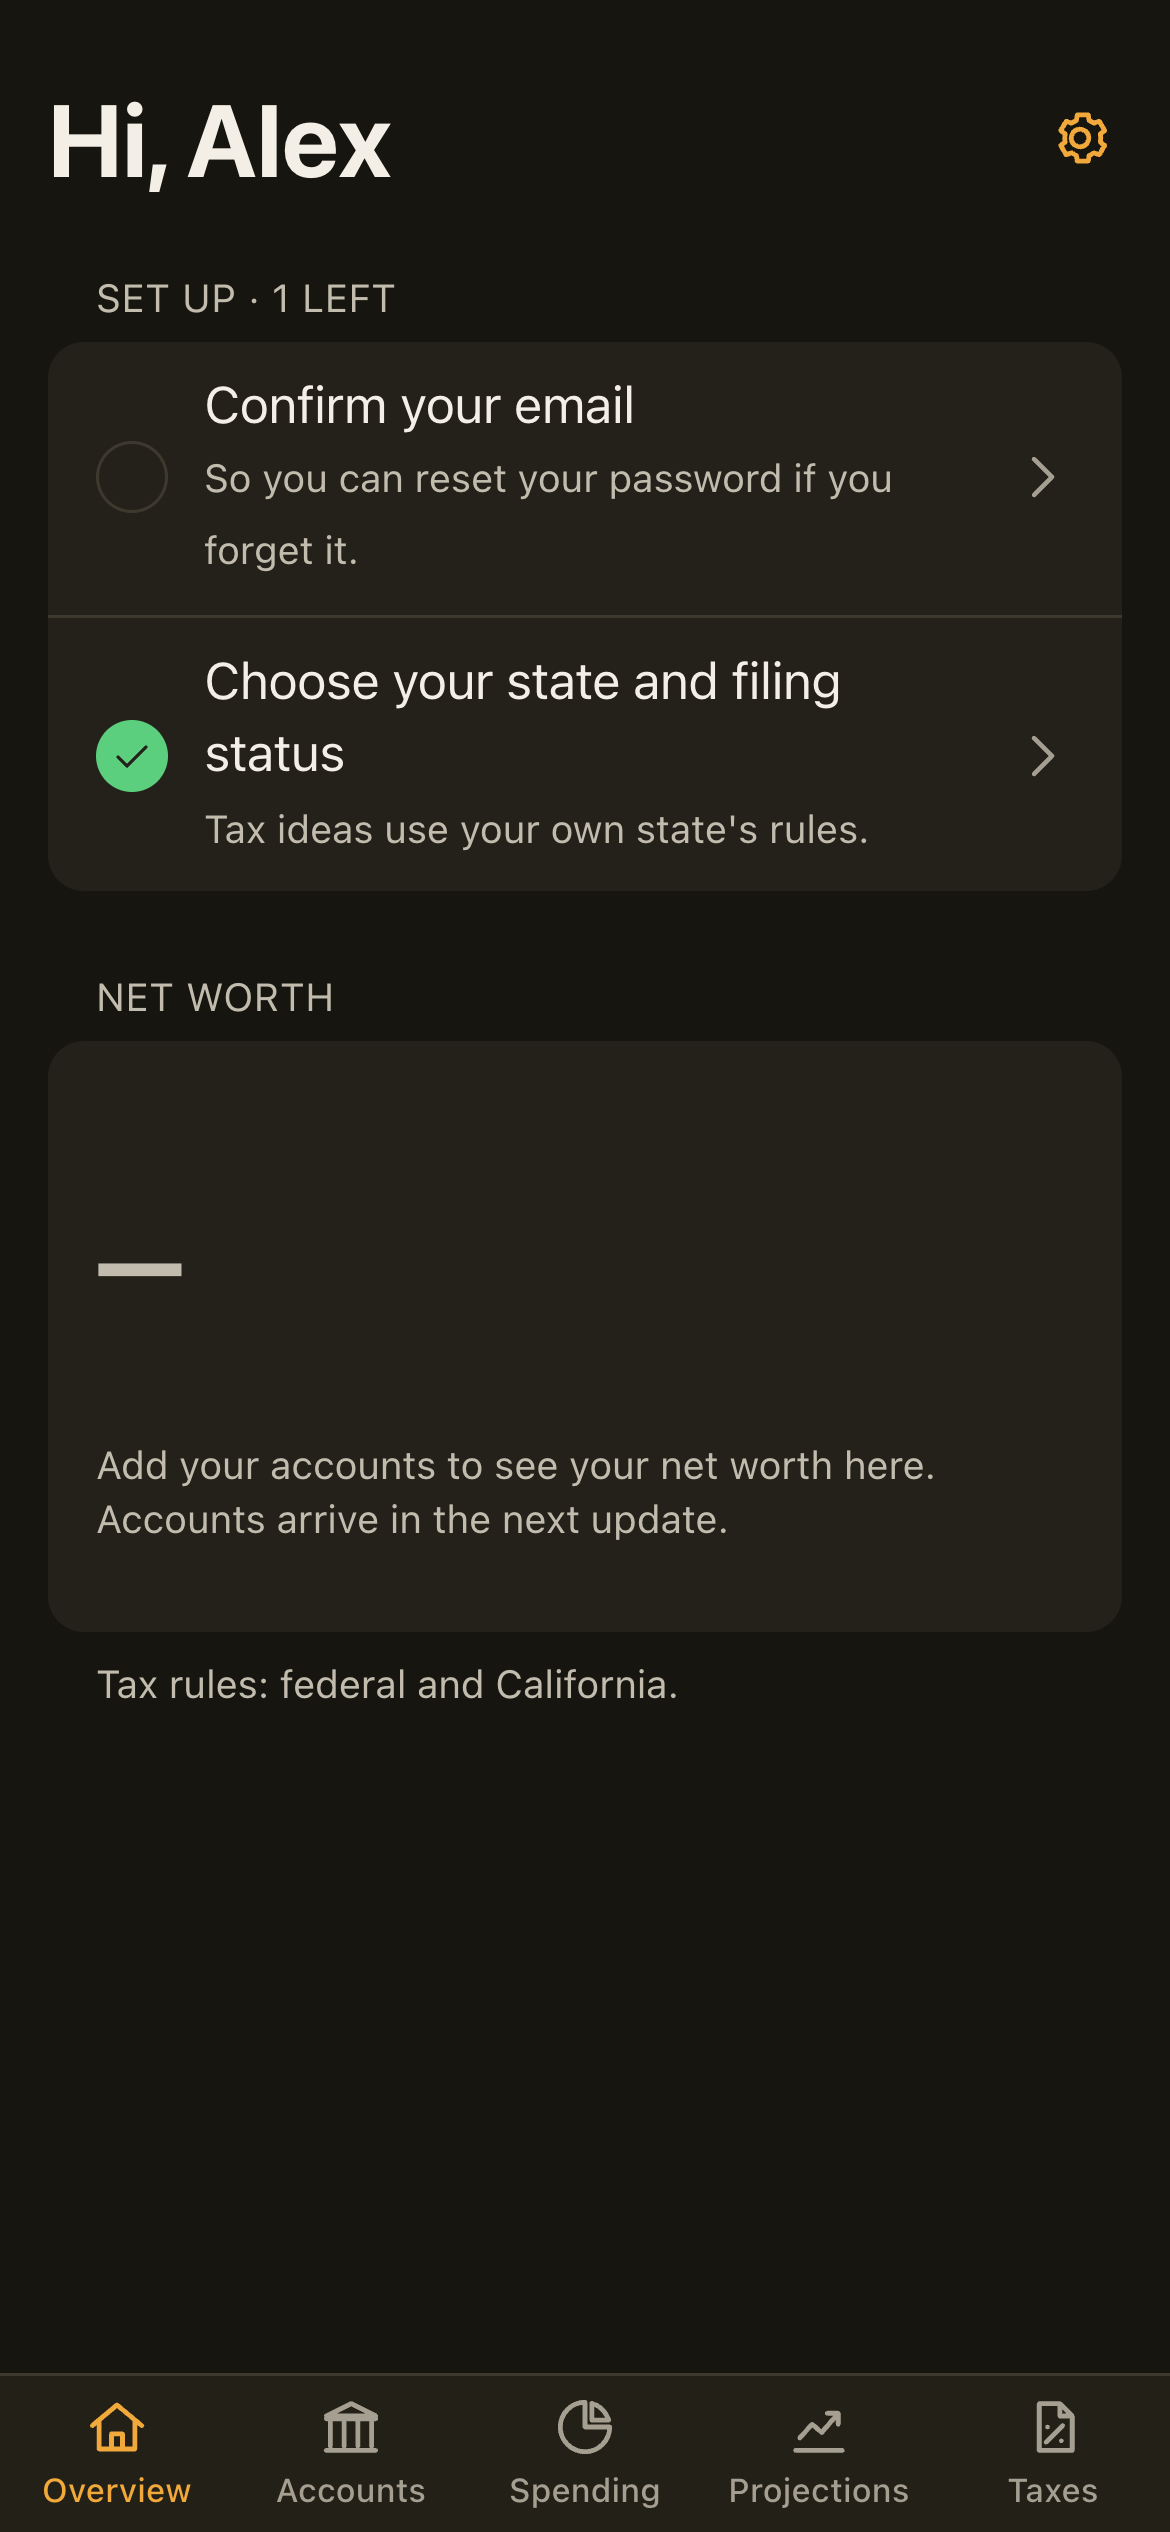
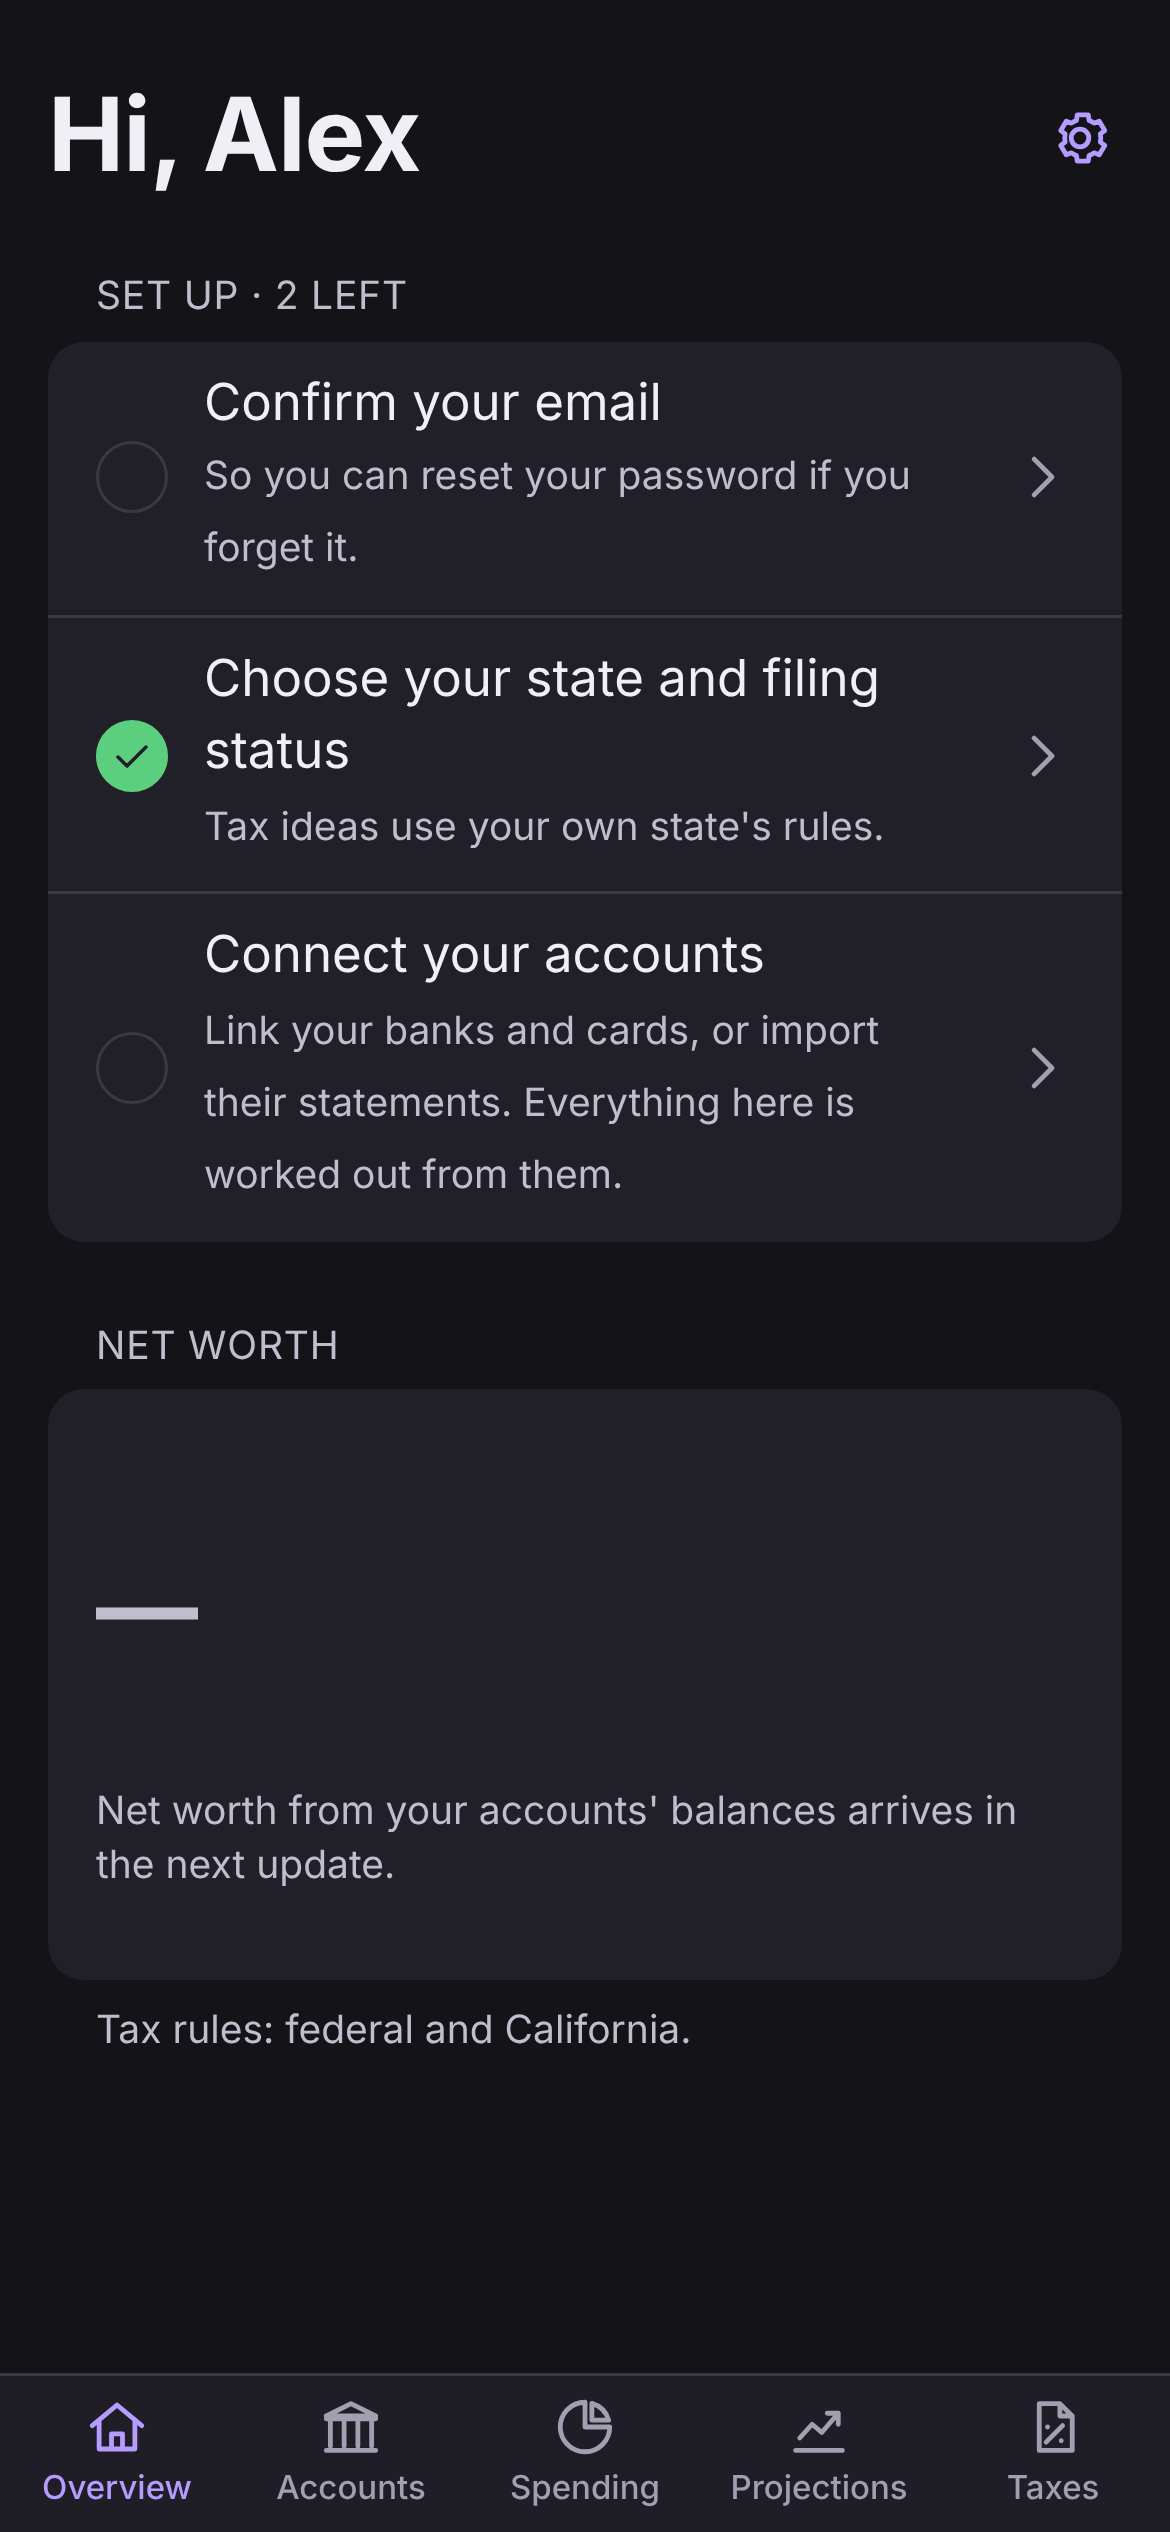
Switch the theme from orange to violet
The accent, app icon tile and email buttons move from cheddar orange to a
violet (#6b3fc4 light, #b69cff dark) that sits apart from the red and green
of losses and gains. The warm neutrals become cool violet-greys to match.
Every text and accent pairing keeps at least 4.5:1 contrast in both modes.
Migration 0008 recolours the existing email templates.

Claude-Session: https://claude.ai/code/session_01GBPZ7fPvkqJNiJKyWXnBsk

diff --git a/app/assets/css/main.css b/app/assets/css/main.css
@@ -8,16 +8,16 @@
 :root {
   color-scheme: light dark;
 
-  --bg: #f7f5f0;            /* page ground (grouped background) */
+  --bg: #f6f5f9;            /* page ground (grouped background) */
   --surface: #ffffff;       /* cards and grouped rows */
-  --surface-2: #efece4;     /* fills: inputs, pressed rows */
-  --separator: #dcd7cb;
-  --text: #1d1b16;
-  --text-2: #5c574b;        /* secondary labels */
-  --text-3: #6f695c;        /* tertiary: hints, placeholders */
-  --accent: #9a5300;        /* cheddar rind: links, tint, primary buttons */
+  --surface-2: #ecebf1;     /* fills: inputs, pressed rows */
+  --separator: #d9d7e1;
+  --text: #1b1a20;
+  --text-2: #58546a;        /* secondary labels */
+  --text-3: #6b6779;        /* tertiary: hints, placeholders */
+  --accent: #6b3fc4;        /* violet: links, tint, primary buttons */
   --on-accent: #ffffff;
-  --accent-soft: #fbecd6;
+  --accent-soft: #efe8fb;
   --success: #1e7a3c;
   --warning: #8a5a00;
   --critical: #b3261e;
@@ -36,21 +36,21 @@
 
 @media (prefers-color-scheme: dark) {
   :root {
-    --bg: #17150f;
-    --surface: #24211a;
-    --surface-2: #322e25;
-    --separator: #3e392e;
-    --text: #f3efe6;
-    --text-2: #c2bcae;
-    --text-3: #a59f91;
-    --accent: #f2a93b;
-    --on-accent: #1d1b16;
-    --accent-soft: #3b2c14;
+    --bg: #141318;
+    --surface: #211f28;
+    --surface-2: #2d2a35;
+    --separator: #3b3844;
+    --text: #f1eff6;
+    --text-2: #c1bdcc;
+    --text-3: #a39fb0;
+    --accent: #b69cff;
+    --on-accent: #1b1a20;
+    --accent-soft: #2e2547;
     --success: #5ccf7f;
     --warning: #e8b54a;
     --critical: #ff8a80;
-    --on-critical: #1d1b16;
-    --critical-soft: #3e1f1c;
+    --on-critical: #1b1a20;
+    --critical-soft: #3e1f22;
     --focus: #6aa8ff;
     --shadow: none;
   }

diff --git a/nuxt.config.ts b/nuxt.config.ts
@@ -23,8 +23,8 @@ export default defineNuxtConfig({
         { rel: 'apple-touch-icon', href: '/icons/apple-touch-icon.png' },
       ],
       meta: [
-        { name: 'theme-color', content: '#F7F5F0', media: '(prefers-color-scheme: light)' },
-        { name: 'theme-color', content: '#17150F', media: '(prefers-color-scheme: dark)' },
+        { name: 'theme-color', content: '#F6F5F9', media: '(prefers-color-scheme: light)' },
+        { name: 'theme-color', content: '#141318', media: '(prefers-color-scheme: dark)' },
         { name: 'mobile-web-app-capable', content: 'yes' },
         { name: 'apple-mobile-web-app-capable', content: 'yes' },
         { name: 'apple-mobile-web-app-title', content: 'Cheddar' },

diff --git a/nginx/unavailable.html b/nginx/unavailable.html
@@ -14,9 +14,9 @@
   <meta name="color-scheme" content="light dark">
   <title>Back in a moment · Cheddar</title>
   <style>
-    :root { --ground: #f7f5f0; --card: #ffffff; --text: #1d1b16; --muted: #5c574b; --border: #dcd7cb; }
+    :root { --ground: #f6f5f9; --card: #ffffff; --text: #1b1a20; --muted: #58546a; --border: #d9d7e1; }
     @media (prefers-color-scheme: dark) {
-      :root { --ground: #17150f; --card: #24211a; --text: #f3efe6; --muted: #c2bcae; --border: #3e392e; }
+      :root { --ground: #141318; --card: #211f28; --text: #f1eff6; --muted: #c1bdcc; --border: #3b3844; }
     }
     * { box-sizing: border-box; }
     body {

diff --git a/shared/mark.ts b/shared/mark.ts
@@ -2,7 +2,7 @@
  * Cheddar's mark, a wedge of cheese, on a 32-unit grid: drawn by AppMark in
  * the app and by scripts/make-icons.mjs for the favicon and Home Screen icons.
  */
-export const MARK_COLOURS = { tile: '#9a5300', cheese: '#f6c04f', rind: '#e39a2a' }
+export const MARK_COLOURS = { tile: '#6b3fc4', cheese: '#f6c04f', rind: '#e39a2a' }
 
 /** The wedge: its faces as paths and its holes as circles, each with its colour's name. */
 export const WEDGE = {
